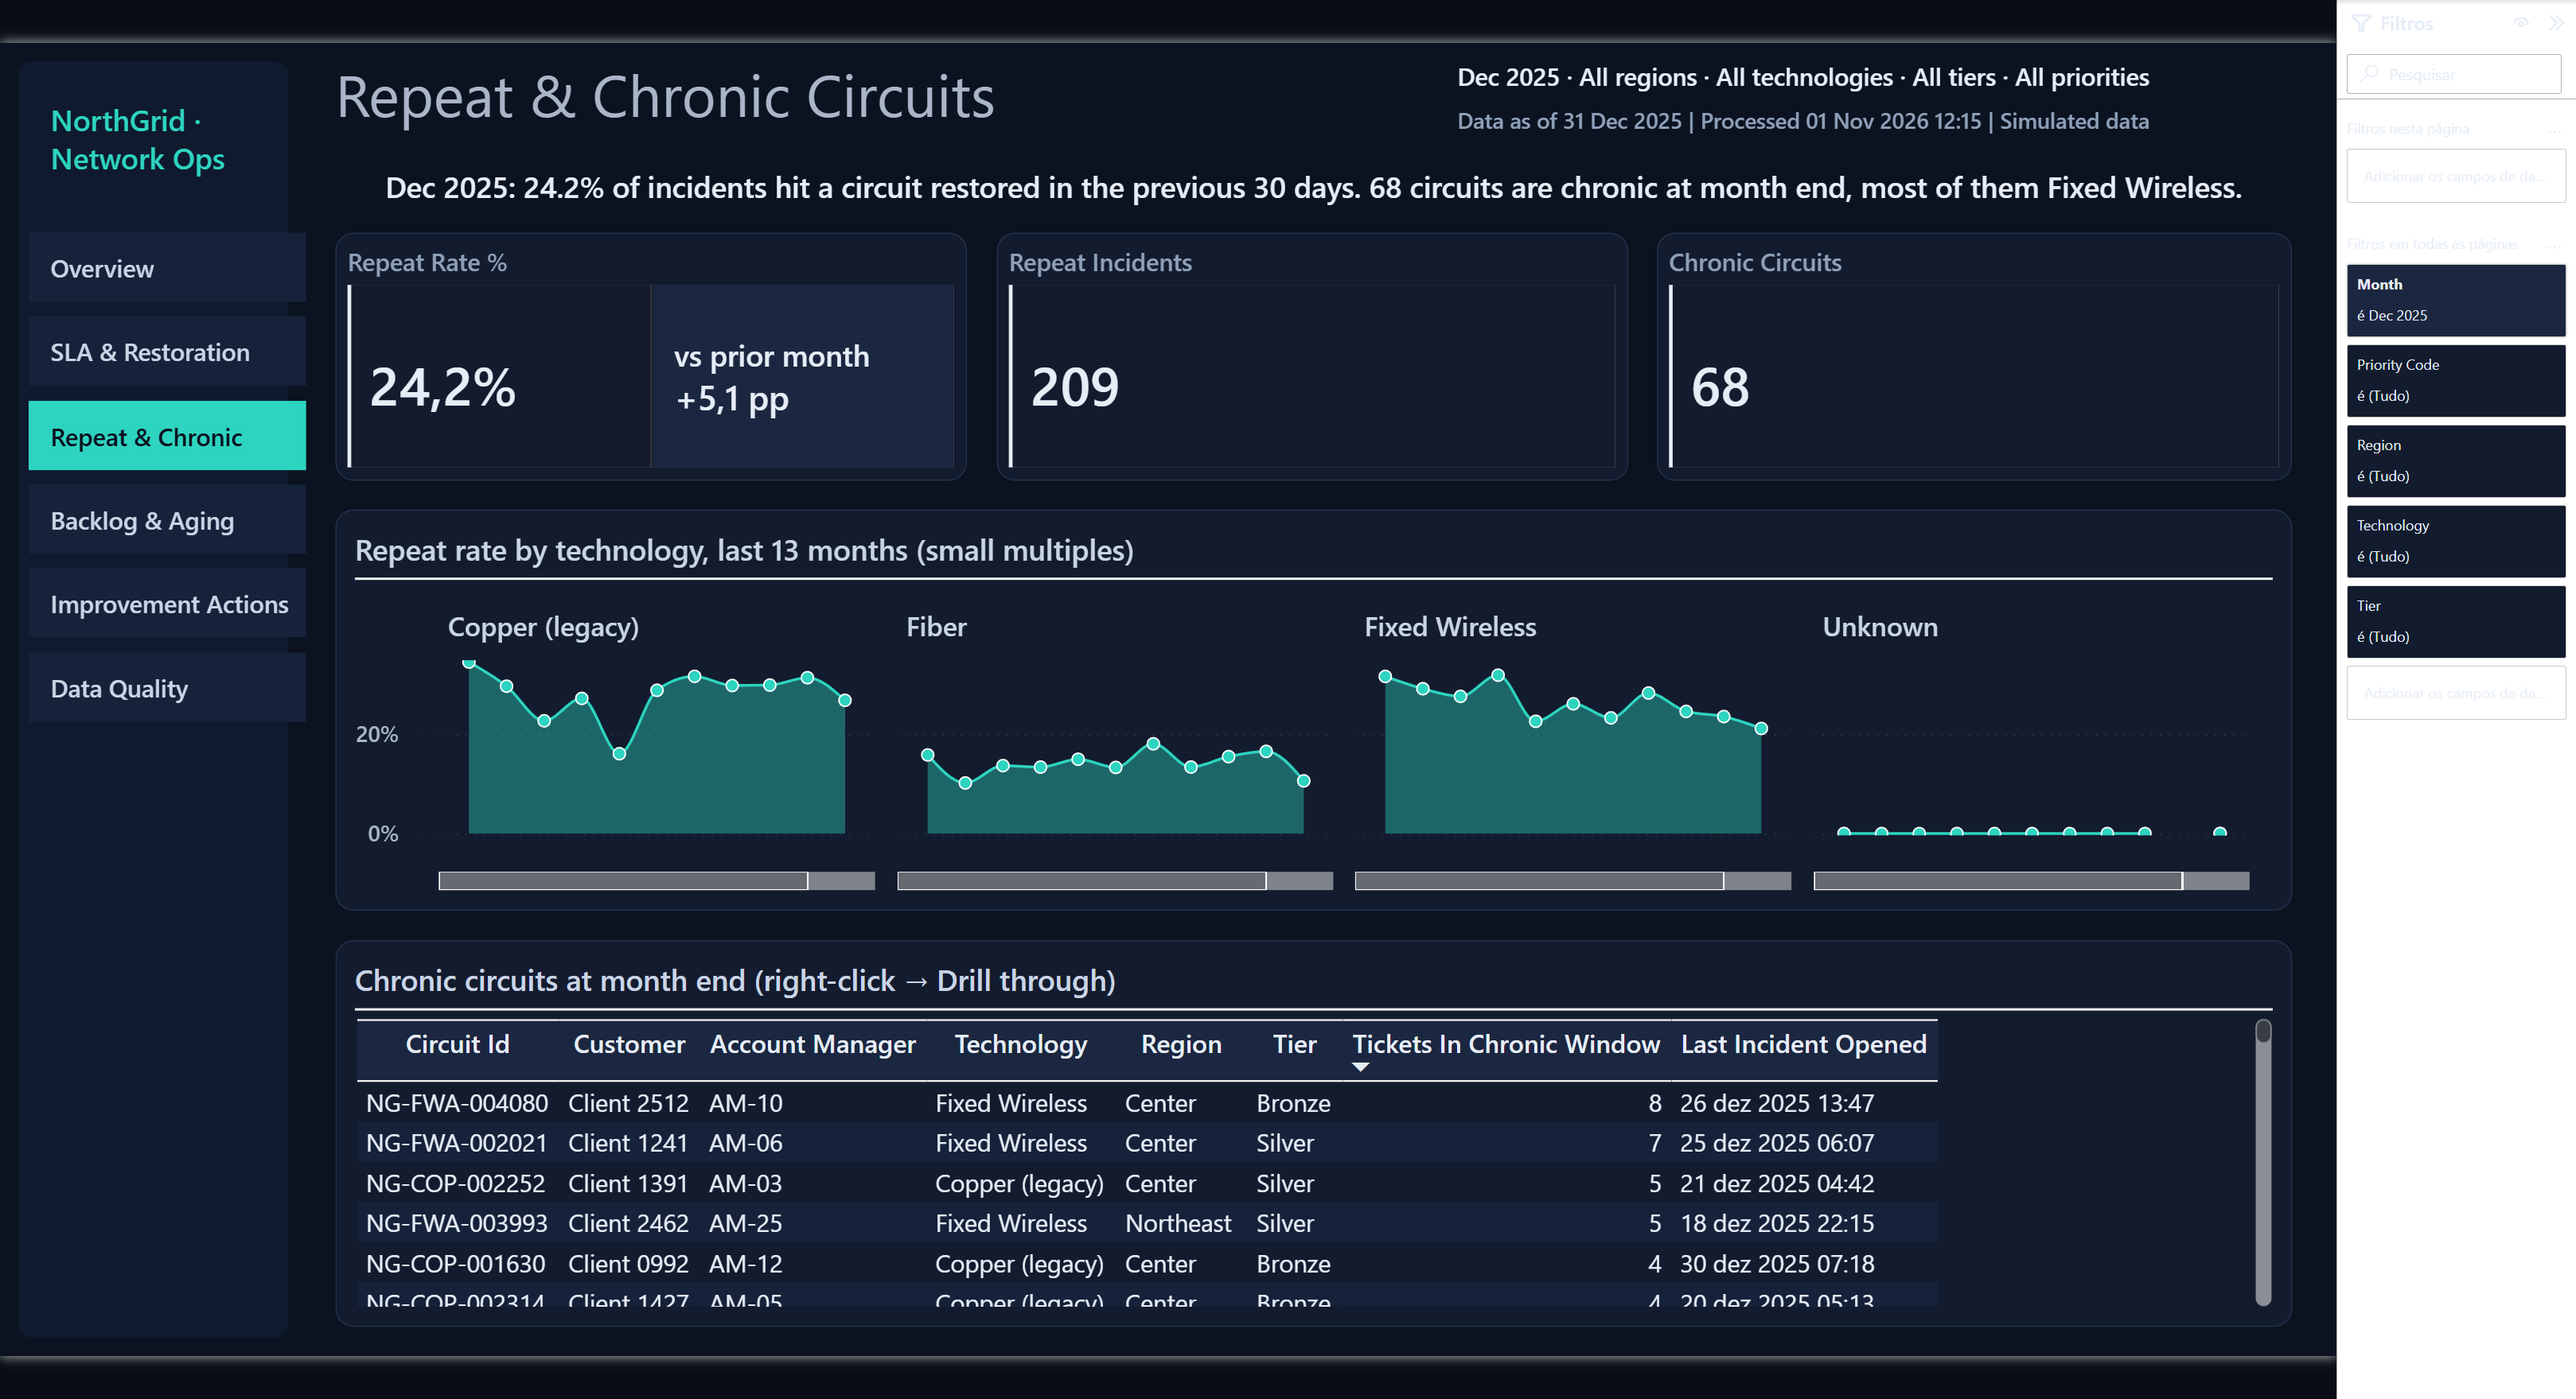
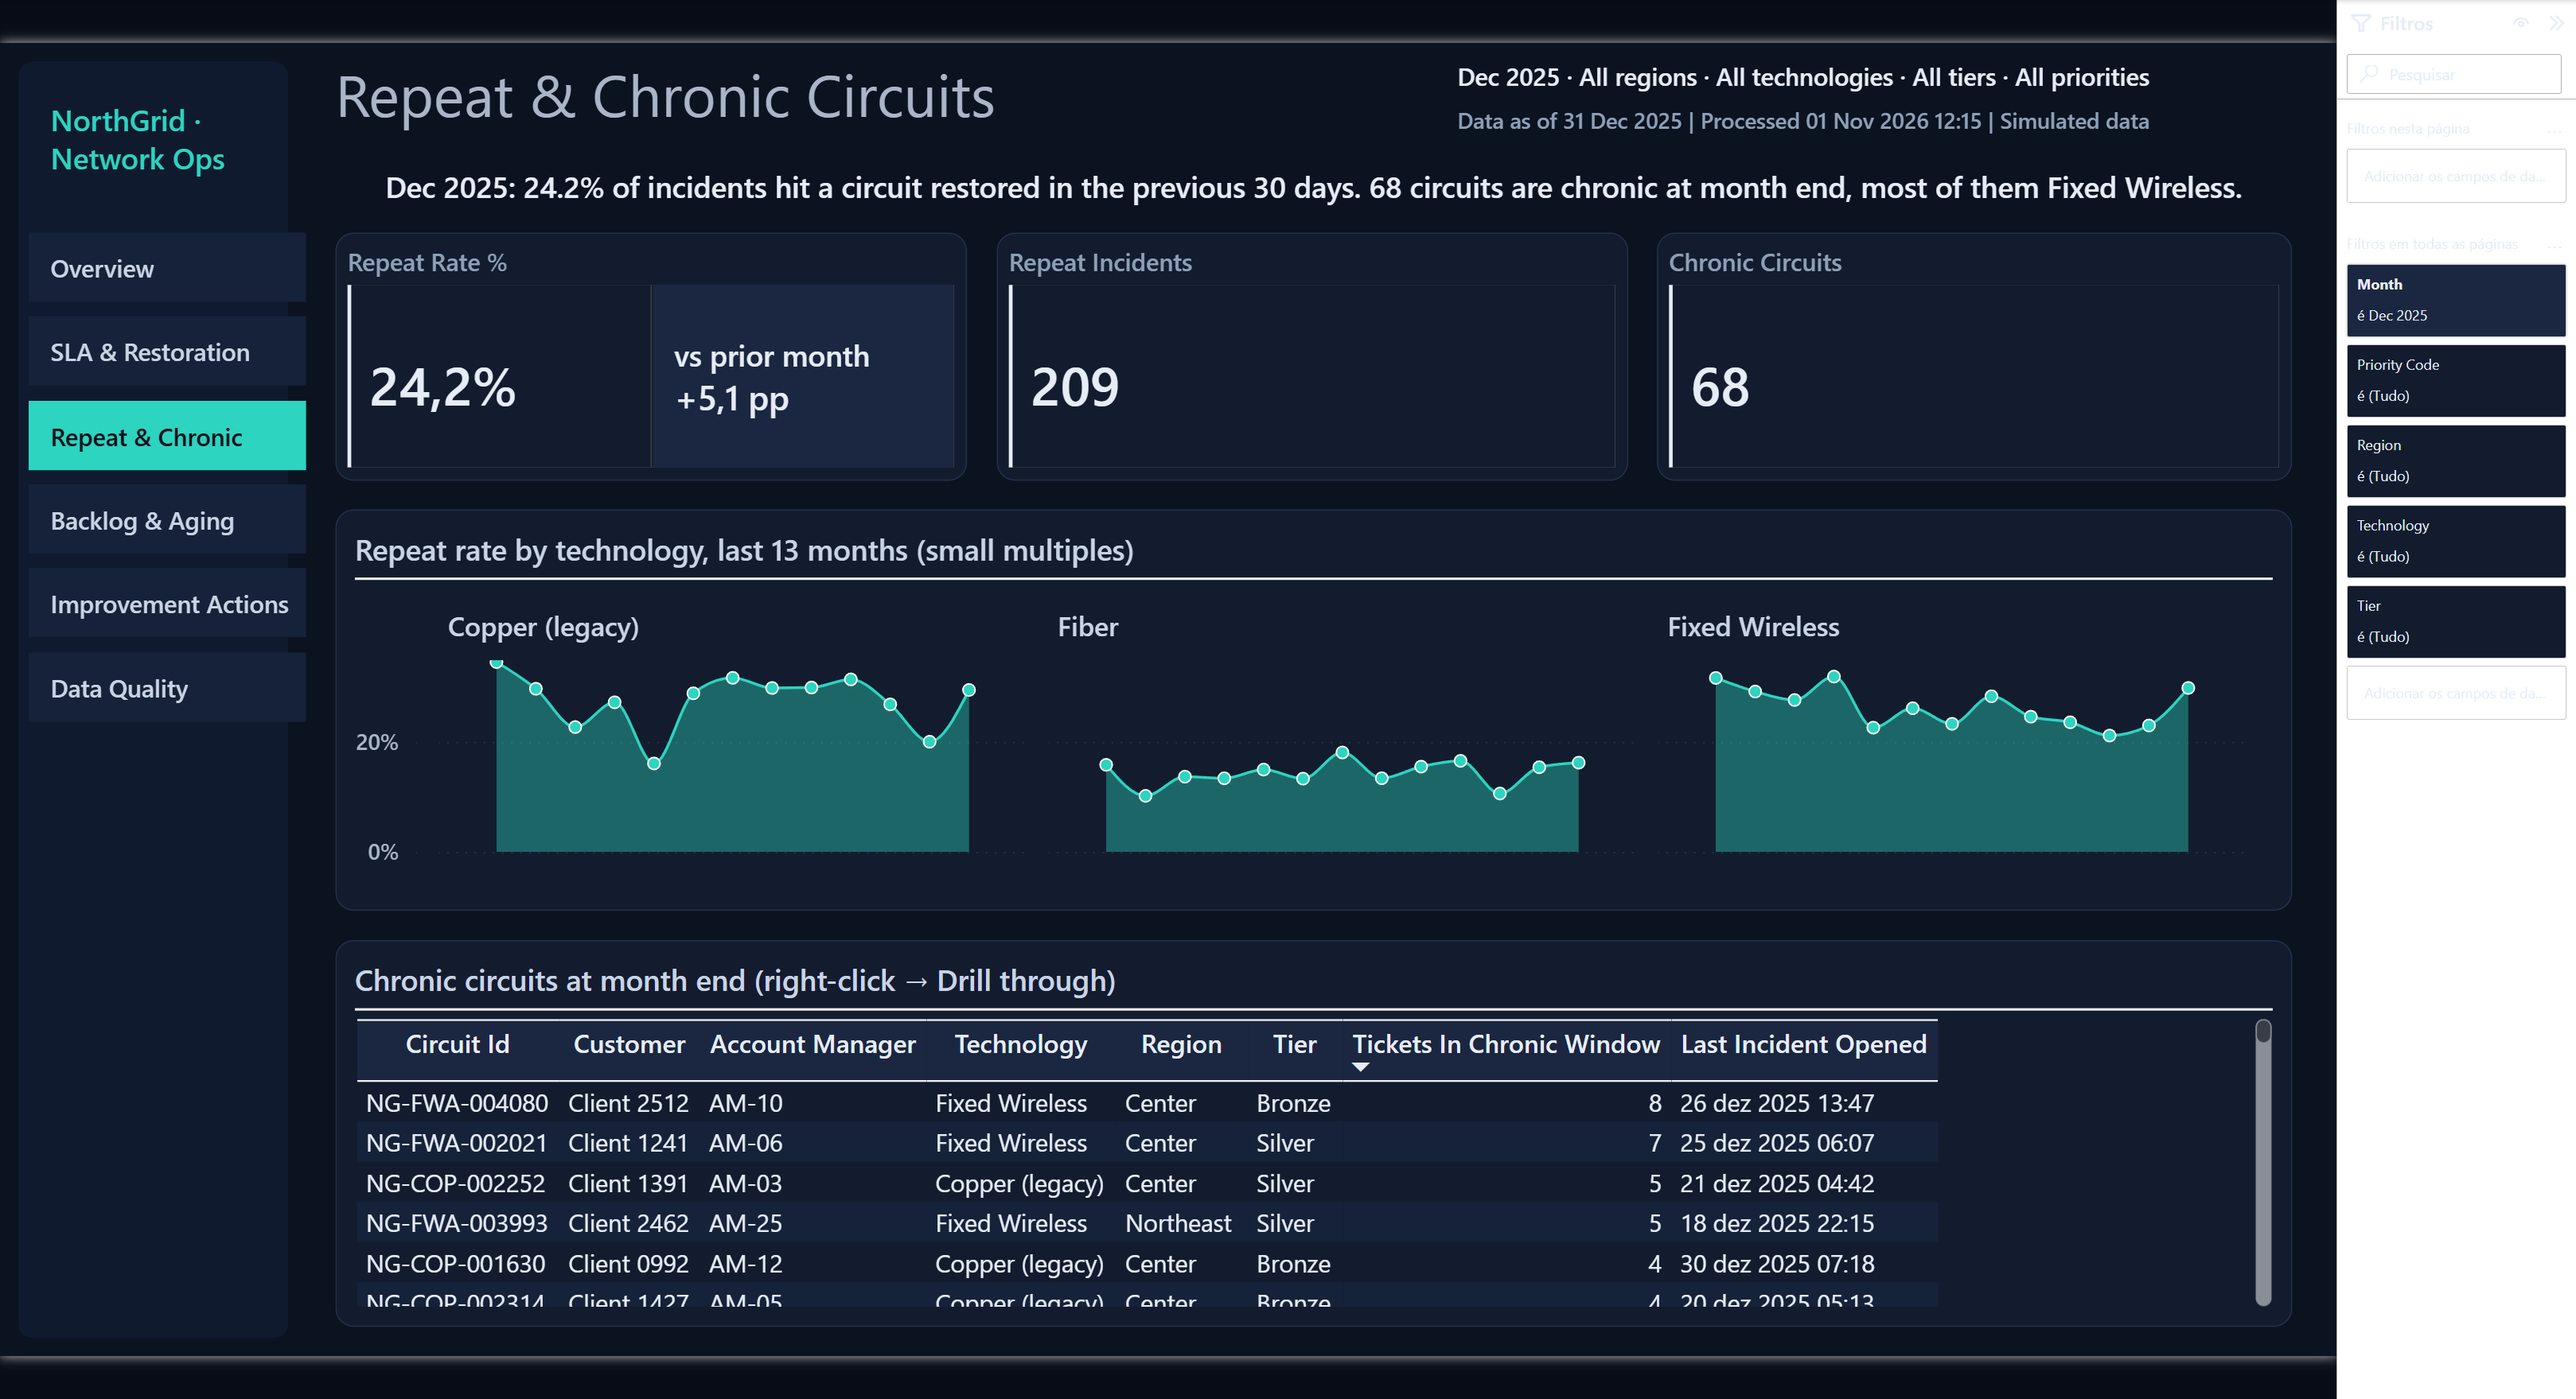
Midnight: small multiples without scroll bars, document new-card colour limitation

diff --git a/docs/design/DESIGN_REPERTOIRE.md b/docs/design/DESIGN_REPERTOIRE.md
@@ -112,13 +112,19 @@ Taken from each report open in Power BI Desktop after its data was refreshed:
   shows all categories (the original's region chart hides one region this way).
 
 ### Known limitations of the variants
-- The month-over-month change line of the new cards (detail value, coloured teal/orange) is configured but is
-  not rendered by Power BI Desktop 2.159; the cards show the prior-month value, and the headline sentence of
-  each page gives the change. The colour measures are ready if a later Desktop version renders them.
+- **Change colour on new cards.** Midnight cards show the month-over-month change (`+8.7%`, `-0.3 pp`) as
+  their reference label, but not coloured: `pbir` writes conditional formatting on new cards with a generic
+  selector that Power BI ignores (tested on the reference value, the detail line and the accent bar), and the
+  project rules forbid editing the JSON by hand. The sign carries the direction; the colour measures
+  (`<KPI> MoM Color`) are ready. Editorial cards still show the prior-month value.
 - Editorial: the small multiples (SLA by region, repeat rate by technology) still show a thin horizontal scroll
-  bar per panel.
-- Midnight: in the five-card row, the SLA card can truncate the value to "62,5…" at 100% zoom.
-- Midnight: x-axis labels of the repeat-rate trend are rotated (13 labels in a half-width chart).
+  bar per panel. Midnight fixed it with a continuous axis on `Trend Month Index` (labels hidden); the same
+  change applies to Editorial.
+
+### Midnight refinement (second round)
+Month-over-month change on the KPI cards, short month labels (`Dec 24`) on every 13-month axis, brand block on
+the navigation rail, shorter Repeat title, full headlines, small multiples without scroll bars and without the
+"Unknown" technology, data quality table without horizontal scroll, all regions visible in the aging chart.
 
 ## Sources
 
